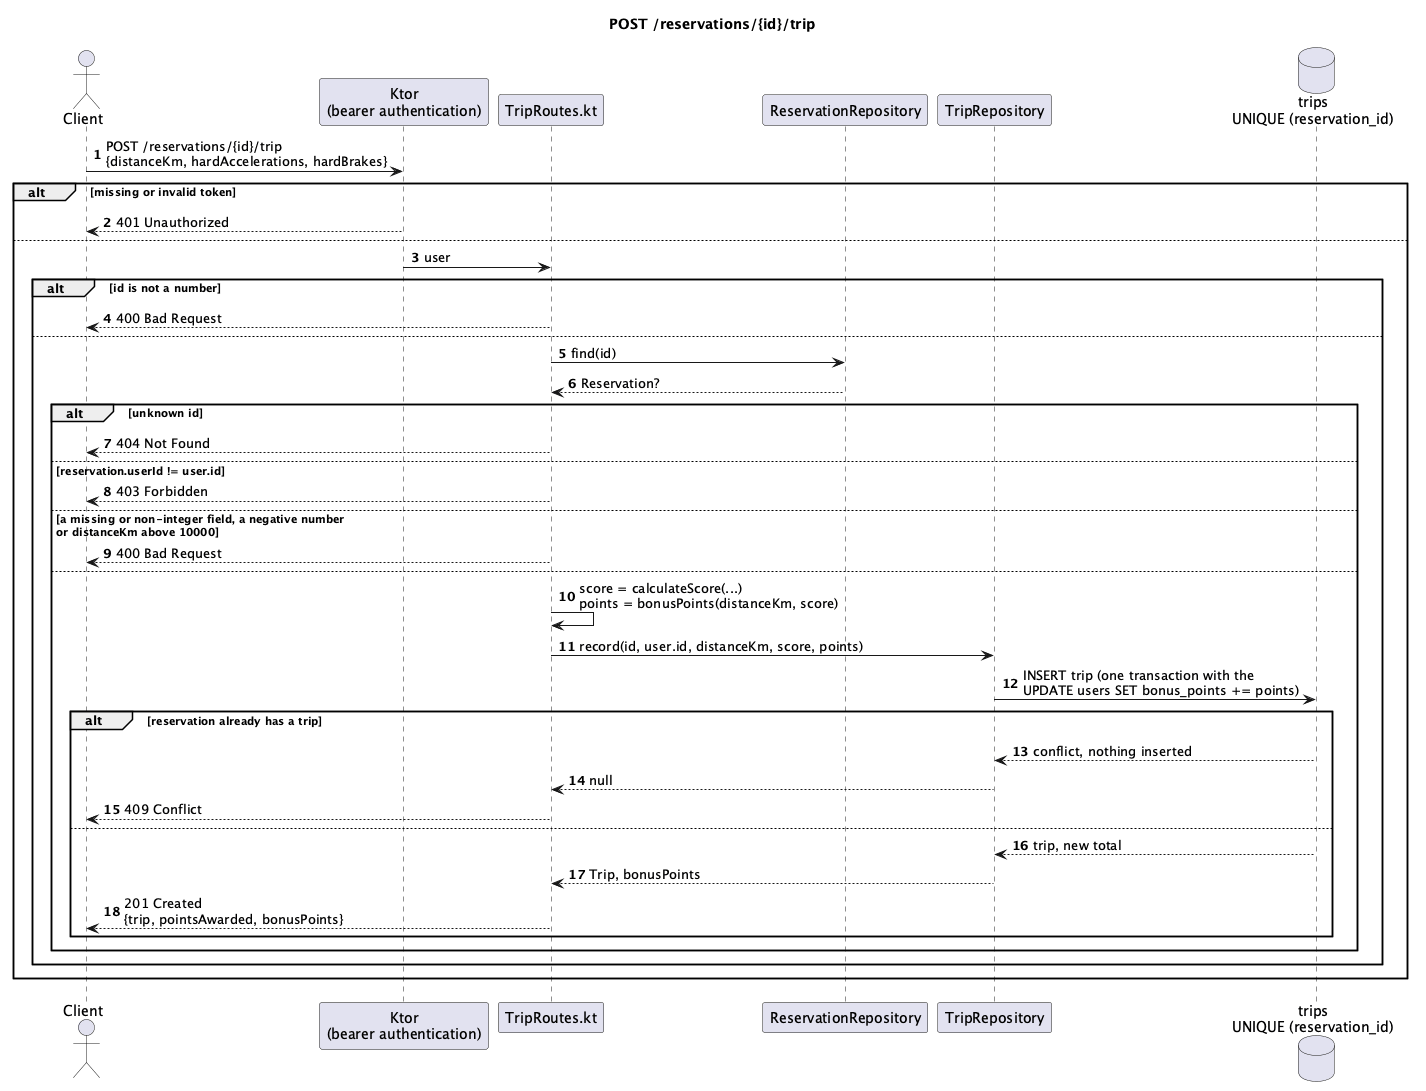
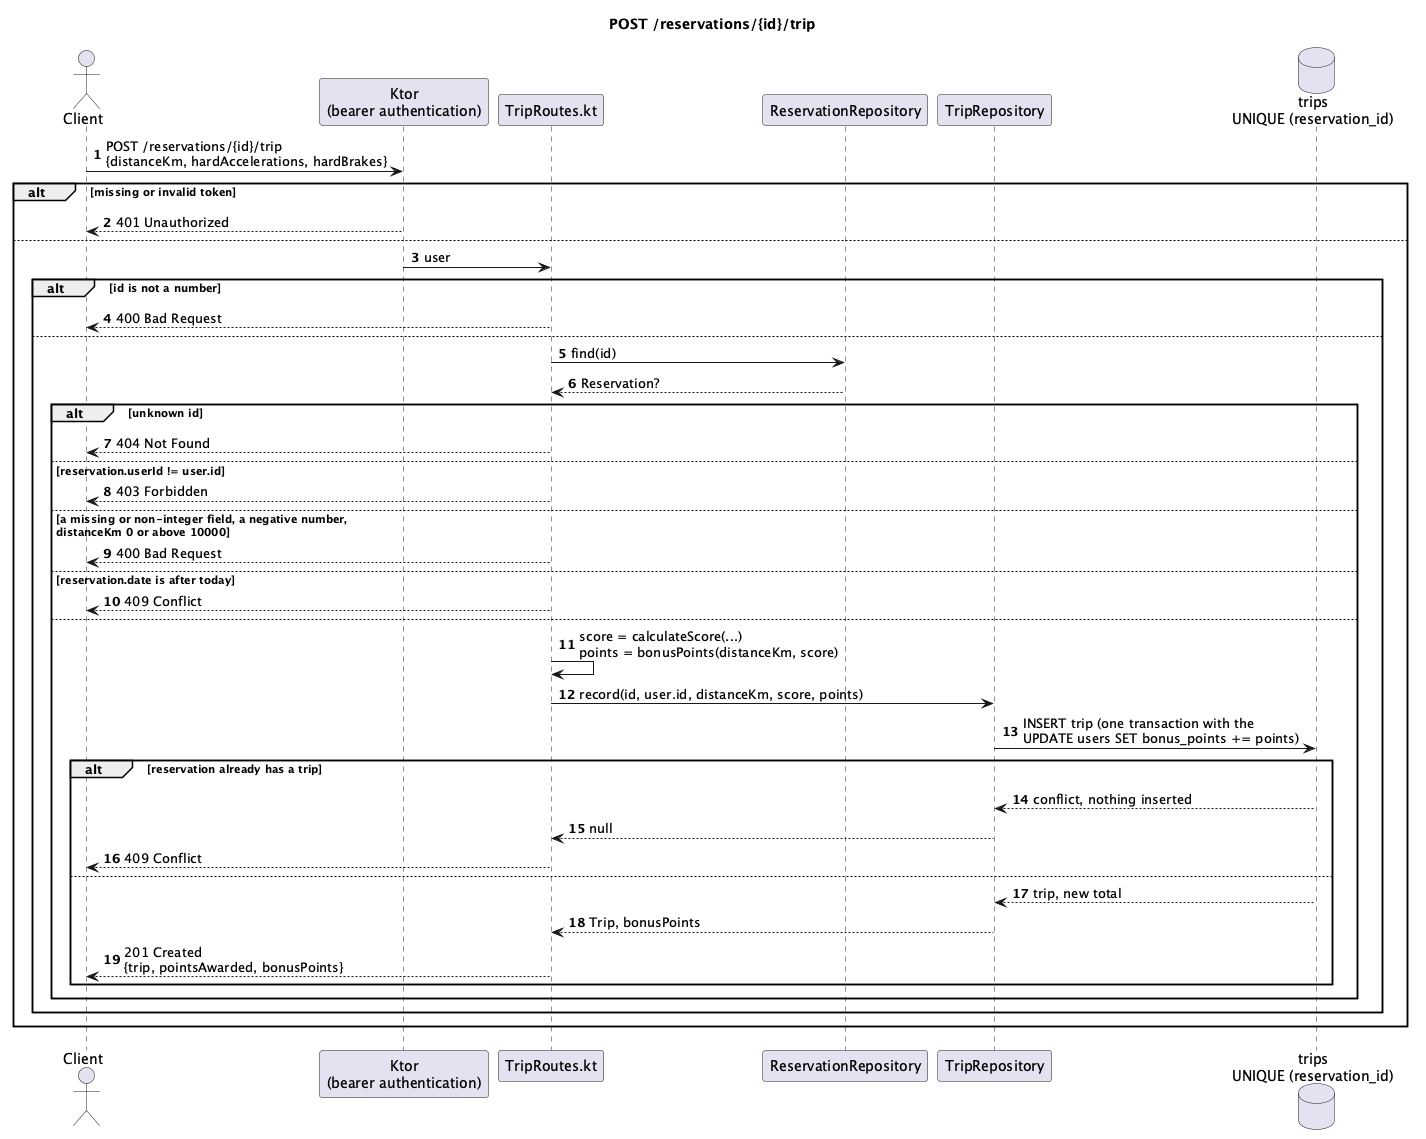
Reject trips of 0 km and trips for reservations in the future

diff --git a/test/trips/TripRoutesTest.kt b/test/trips/TripRoutesTest.kt
@@ -5,6 +5,8 @@ import com.example.cars.CarStatus
 import com.example.cars.PostgresCarRepository
 import com.example.database.TestDatabase
 import com.example.database.useTestDatabase
+import com.example.reservations.Daypart
+import com.example.reservations.ZONE
 import io.ktor.client.HttpClient
 import io.ktor.client.request.bearerAuth
 import io.ktor.client.request.delete
@@ -23,6 +25,7 @@ import kotlinx.coroutines.awaitAll
 import kotlinx.coroutines.coroutineScope
 import kotlinx.serialization.json.*
 import org.jetbrains.amper.ktor.module
+import java.time.LocalDate
 import kotlin.test.*
 
 class TripRoutesTest {
@@ -52,13 +55,15 @@ class TripRoutesTest {
         return Renter(id, Json.parseToJsonElement(login.bodyAsText()).jsonObject["token"]!!.jsonPrimitive.content)
     }
 
-    // Reserves a daypart of the car (a new date each time) and returns the reservation id.
-    private var day = 0
-    private suspend fun HttpClient.reserve(renter: Renter): Int {
+    // Reserves a daypart of the car and returns the reservation id. A trip only counts once the day has come,
+    // so the default is today, with a new daypart each time (a test makes at most three).
+    private var reservations = 0
+    private suspend fun HttpClient.reserve(renter: Renter, date: String = LocalDate.now(ZONE).toString()): Int {
+        val daypart = Daypart.entries[reservations++ % Daypart.entries.size]
         val response = post("/cars/$car/reservations") {
             bearerAuth(renter.token)
             contentType(ContentType.Application.Json)
-            setBody("""{"date":"2031-01-${"%02d".format(++day)}","daypart":"MORNING"}""")
+            setBody("""{"date":"$date","daypart":"$daypart"}""")
         }
         assertEquals(HttpStatusCode.Created, response.status)
         return Json.parseToJsonElement(response.bodyAsText()).jsonObject["id"]!!.jsonPrimitive.int
@@ -128,6 +133,7 @@ class TripRoutesTest {
         val reservation = client.reserve(jan)
 
         assertEquals(HttpStatusCode.BadRequest, client.trip(reservation, trip(-1), jan.token).status)
+        assertEquals(HttpStatusCode.BadRequest, client.trip(reservation, trip(0), jan.token).status)
         assertEquals(HttpStatusCode.BadRequest, client.trip(reservation, trip(10, accelerations = -1), jan.token).status)
         assertEquals(HttpStatusCode.BadRequest, client.trip(reservation, trip(10, brakes = -1), jan.token).status)
         assertEquals(HttpStatusCode.BadRequest, client.trip(reservation, trip(MAX_TRIP_KM + 1), jan.token).status)
@@ -136,6 +142,25 @@ class TripRoutesTest {
         assertEquals(HttpStatusCode.BadRequest, client.trip("abc", trip(10), jan.token).status)
         assertEquals(0, client.bonusPoints(jan))
         assertEquals(HttpStatusCode.Created, client.trip(reservation, trip(10), jan.token).status)
+    }
+
+    @Test
+    fun TheLongestTripEarnsItsPoints() = withApp {
+        val jan = client.signUp("jan@example.com")
+
+        val response = client.trip(client.reserve(jan), trip(MAX_TRIP_KM), jan.token)
+
+        assertEquals(HttpStatusCode.Created, response.status)
+        assertEquals(MAX_TRIP_KM, Json.parseToJsonElement(response.bodyAsText()).jsonObject["bonusPoints"]!!.jsonPrimitive.int)
+    }
+
+    @Test
+    fun AReservationInTheFutureGives409AndNoPoints() = withApp {
+        val jan = client.signUp("jan@example.com")
+        val reservation = client.reserve(jan, "2031-01-01")
+
+        assertEquals(HttpStatusCode.Conflict, client.trip(reservation, trip(10), jan.token).status)
+        assertEquals(0, client.bonusPoints(jan))
     }
 
     @Test

diff --git a/src/trips/TripRoutes.kt b/src/trips/TripRoutes.kt
@@ -2,6 +2,7 @@ package com.example.trips
 
 import com.example.accounts.User
 import com.example.reservations.ReservationRepository
+import com.example.reservations.ZONE
 import io.ktor.http.HttpStatusCode
 import io.ktor.server.application.*
 import io.ktor.server.auth.authenticate
@@ -9,6 +10,7 @@ import io.ktor.server.auth.principal
 import io.ktor.server.request.receive
 import io.ktor.server.response.*
 import io.ktor.server.routing.*
+import java.time.LocalDate
 
 fun Application.configureTrips(reservations: ReservationRepository, trips: TripRepository) {
     routing {
@@ -23,8 +25,13 @@ fun Application.configureTrips(reservations: ReservationRepository, trips: TripR
                     reservation.userId != user.id -> call.respond(HttpStatusCode.Forbidden)
                     else -> {
                         val request = call.receive<TripRequest>() // Ktor answers a missing field or a non-integer with 400
-                        if (request.distanceKm !in 0..MAX_TRIP_KM || request.hardAccelerations < 0 || request.hardBrakes < 0) {
+                        if (request.distanceKm !in 1..MAX_TRIP_KM || request.hardAccelerations < 0 || request.hardBrakes < 0) {
                             call.respond(HttpStatusCode.BadRequest)
+                            return@post
+                        }
+                        // Nothing was driven yet: without this a renter could claim points for any reservation in the future.
+                        if (LocalDate.parse(reservation.date).isAfter(LocalDate.now(ZONE))) {
+                            call.respond(HttpStatusCode.Conflict)
                             return@post
                         }
                         val score = calculateScore(request.distanceKm, request.hardAccelerations, request.hardBrakes)

diff --git a/src/accounts/UserRepository.kt b/src/accounts/UserRepository.kt
@@ -40,7 +40,7 @@ internal object Users : Table("users") {
     }
 }
 
-// ponytail: no migration tool (SchemaUtils.create only creates missing tables), add one (Flyway) when the schema has to change on a database that already has data.
+// ponytail: no migration tool (SchemaUtils.create only creates missing tables): a column added later gets an ALTER TABLE ... IF NOT EXISTS below, add Flyway when the schema changes in other ways on a database that already has data.
 internal fun Database.createUsers() = transaction(this) {
     SchemaUtils.create(Users)
     // SchemaUtils.create leaves an older table alone, so add the columns added later.

diff --git a/README.md b/README.md
@@ -70,7 +70,7 @@ Swagger UI is only served in Ktor's development mode, which is on by default. St
 
 A car is rented per daypart: `MORNING` (06:00-12:00), `AFTERNOON` (12:00-18:00) or `EVENING` (18:00-24:00), once per car and date. Pass the `date` (`2026-10-12`) and `daypart` to `POST /cars/{id}/reservations`; `GET /cars/{id}/availability?date=2026-10-12` lists what is still free. A car in `Maintenance` can't be reserved. There is no `Rented` status.
 
-After driving, the renter sends the trip of their reservation to `POST /reservations/{id}/trip` with `distanceKm`, `hardAccelerations` and `hardBrakes` as the app measured them, once per reservation. The server calculates the `score` (100, minus 5 for every hard acceleration or brake per 100 km, never below 0) and awards `distanceKm * score / 100` points (rounded down) to the renter's `bonusPoints`, which accounts show.
+After driving, the renter sends the trip of their reservation to `POST /reservations/{id}/trip` with `distanceKm`, `hardAccelerations` and `hardBrakes` as the app measured them, once per reservation and not before its date. The server calculates the `score` (100, minus 5 for every hard acceleration or brake per 100 km, never below 0) and awards `distanceKm * score / 100` points (rounded down) to the renter's `bonusPoints`, which accounts show.
 
 A password needs 8 to 128 characters, and the email address must be unused. Everything under `/accounts/{id}` and `/logout` needs a login and only works on your own account. Routes that need a login take the token from `POST /login` in an `Authorization: Bearer <token>` header. Each endpoint has a [sequence diagram](docs/diagrams) with every status code.
 
